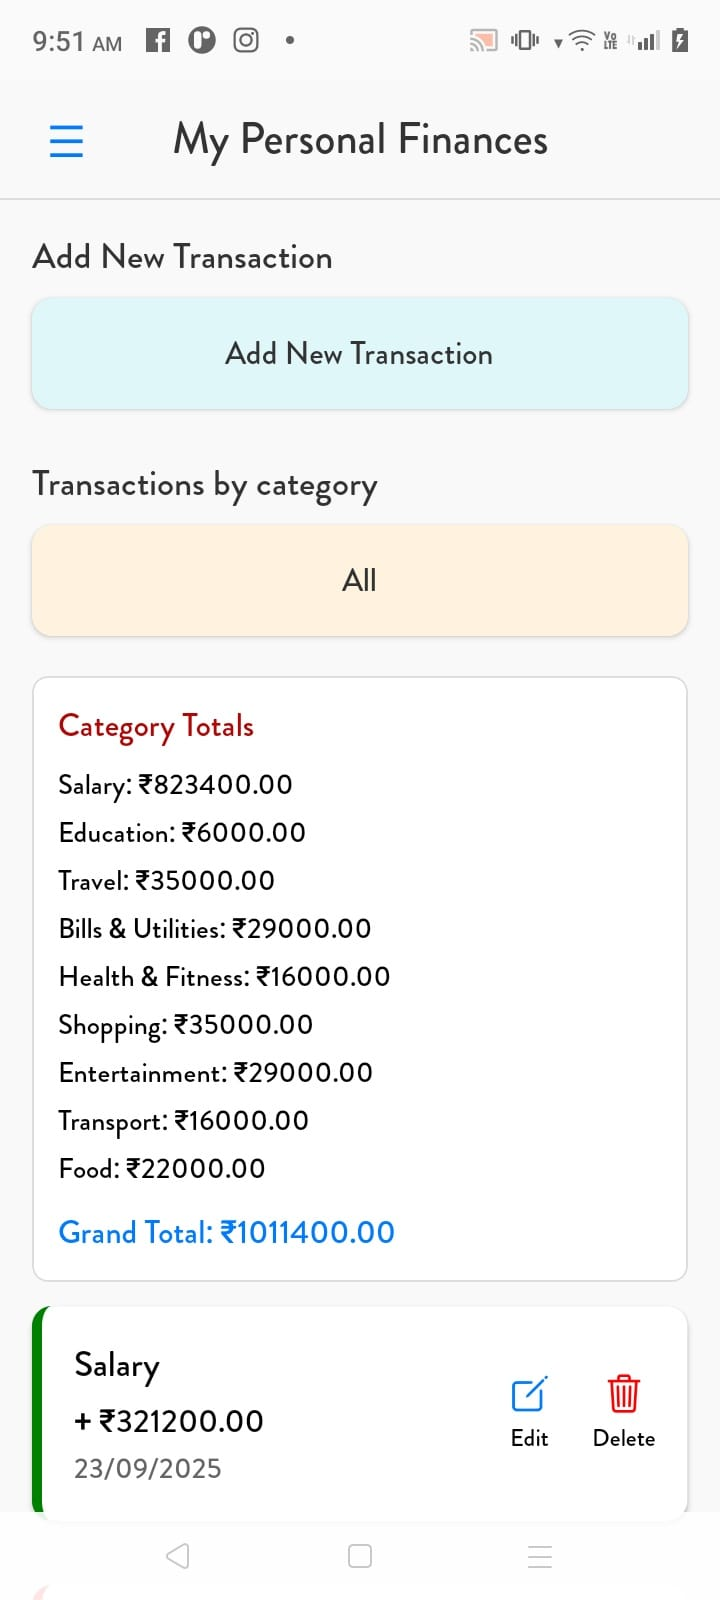
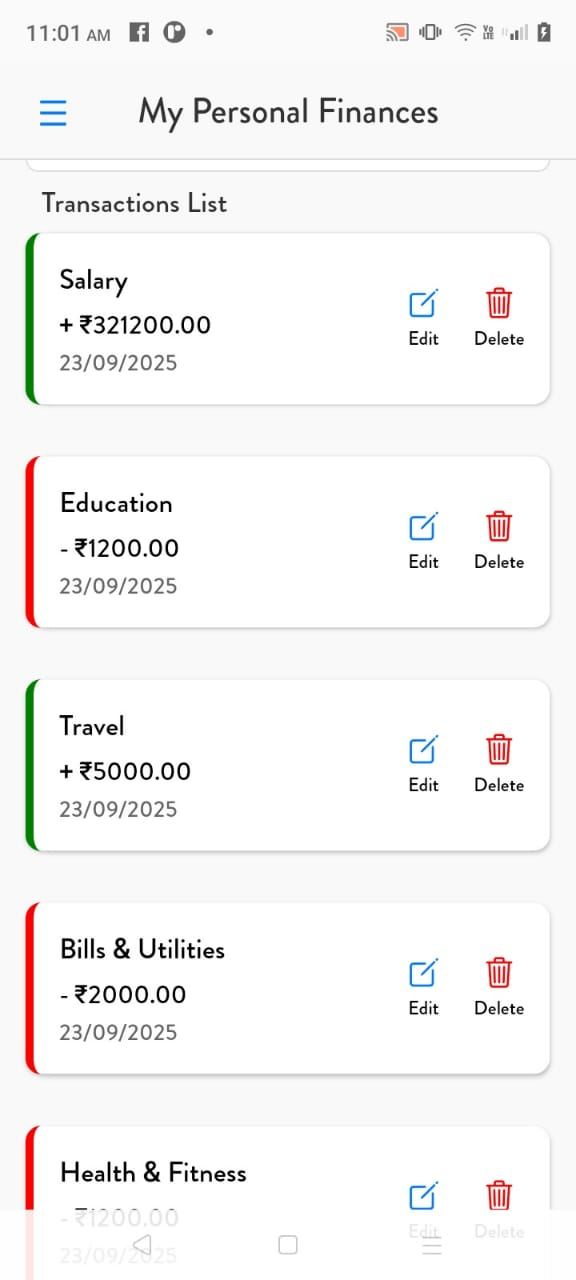
Update README with demo video and screenshots, update other assets and components

diff --git a/src/screens/TransactionsScreen.tsx b/src/screens/TransactionsScreen.tsx
@@ -36,7 +36,6 @@ export const TransactionsScreen: React.FC = () => {
   const [sortOrder, setSortOrder] = useState<"asc" | "desc">("desc");
   const [currentPage, setCurrentPage] = useState(1);
 
-  // Edit modal state
   const [editTransaction, setEditTransaction] = useState<Transaction | null>(null);
   const [formVisible, setFormVisible] = useState(false);
 
@@ -52,6 +51,7 @@ export const TransactionsScreen: React.FC = () => {
         ? transactions
         : transactions.filter((t) => t.transaction_category === selectedCategory);
 
+    // ✅ Sort by date (Ascending or Descending)
     const sortedFiltered = [...filtered].sort((a, b) => {
       const aDate = new Date(a.date).getTime();
       const bDate = new Date(b.date).getTime();
@@ -84,7 +84,6 @@ export const TransactionsScreen: React.FC = () => {
     }
   };
 
-  // Edit modal handler
   const handleEdit = useCallback((tx: Transaction) => {
     setEditTransaction(tx);
     setFormVisible(true);
@@ -101,7 +100,12 @@ export const TransactionsScreen: React.FC = () => {
   };
 
   const handleAddTransactionFromAction = (tx: Transaction) => {
-    addTransaction(tx); // Add transaction from TransactionActions
+    addTransaction(tx);
+  };
+
+  // ✅ Toggle sort order
+  const toggleSortOrder = () => {
+    setSortOrder((prev) => (prev === "desc" ? "asc" : "desc"));
   };
 
   if (loading) {
@@ -121,11 +125,18 @@ export const TransactionsScreen: React.FC = () => {
       <View style={styles.headerContainer}>
         <TouchableOpacity
           style={styles.toggleButton}
-          onPress={() => console.log("Toggle pressed")}
+          onPress={() => console.log("Menu pressed")}
         >
           <Text style={styles.toggleButtonText}>☰</Text>
         </TouchableOpacity>
         <Text style={styles.fixedTitle}>My Personal Finances</Text>
+
+        {/* ✅ Sort Button */}
+        <TouchableOpacity style={styles.sortButton} onPress={toggleSortOrder}>
+          <Text style={styles.sortText}>
+            {sortOrder === "desc" ? "↓ Date" : "↑ Date"}
+          </Text>
+        </TouchableOpacity>
       </View>
 
       {/* FlatList */}
@@ -139,27 +150,40 @@ export const TransactionsScreen: React.FC = () => {
             onDelete={removeTransaction}
           />
         )}
-        contentContainerStyle={{ paddingHorizontal: 16, paddingBottom: 20, paddingTop: 70 }}
-        ListEmptyComponent={
-          <Text style={styles.emptyText}>No transactions found</Text>
-        }
+        contentContainerStyle={{
+          paddingHorizontal: 16,
+          paddingBottom: 20,
+          paddingTop: 70,
+        }}
+        ListEmptyComponent={<Text style={styles.emptyText}>No transactions found</Text>}
         ListHeaderComponent={
-          <>
-            <BatteryMonitor />
-            <TransactionChart transactions={transactions} />
-            <TransactionActions
-              selectedCategory={selectedCategory}
-              categories={categories}
-              onAddTransaction={handleAddTransactionFromAction}
-              onSelectCategory={setSelectedCategory}
-            />
-            <CategoryTotals
-              categoryTotals={categoryTotals}
-              grandTotal={grandTotal}
-              selectedCategory={selectedCategory}
-            />
-          </>
-        }
+  <>
+    <BatteryMonitor />
+    <TransactionChart transactions={transactions} />
+    <TransactionActions
+      selectedCategory={selectedCategory}
+      categories={categories}
+      onAddTransaction={handleAddTransactionFromAction}
+      onSelectCategory={setSelectedCategory}
+    />
+    <CategoryTotals
+      categoryTotals={categoryTotals}
+      grandTotal={grandTotal}
+      selectedCategory={selectedCategory}
+    />
+
+    {/* 🔹 Title Row with Sort Button */}
+    <View style={styles.titleRow}>
+      <Text style={styles.listTitle}>Transactions List</Text>
+      <TouchableOpacity onPress={toggleSortOrder}>
+        <Text style={styles.sortButtonText}>
+          {sortOrder === "desc" ? "↓ Date" : "↑ Date"}
+        </Text>
+      </TouchableOpacity>
+    </View>
+  </>
+}
+
         onEndReached={handleLoadMore}
         onEndReachedThreshold={0.5}
         showsVerticalScrollIndicator={false}
@@ -198,7 +222,7 @@ const styles = StyleSheet.create({
     paddingHorizontal: 16,
   },
   fixedTitle: {
-    fontSize: 22,
+    fontSize: 20,
     fontFamily: "brandonmedium",
     color: "#333",
     textAlign: "center",
@@ -211,10 +235,19 @@ const styles = StyleSheet.create({
     justifyContent: "center",
     alignItems: "center",
   },
-  toggleButtonText: {
-    fontSize: 22,
-    color: "#007AFF",
+  toggleButtonText: { fontSize: 22, color: "#007AFF" },
+
+  sortButton: {
+    position: "absolute",
+    right: 16,
+    padding: 6,
   },
+  sortText: {
+    fontSize: 14,
+    color: "#007AFF",
+    fontFamily: "brandonmedium",
+  },
+
   emptyText: {
     textAlign: "center",
     marginTop: 20,
@@ -222,6 +255,26 @@ const styles = StyleSheet.create({
     color: "#555",
     fontFamily: "brandonmedium",
   },
+  listTitle: {
+    fontSize: 18,
+    fontFamily: "brandonmedium",
+    color: "#333",
+    marginTop: 20,
+  },
+  titleRow: {
+  flexDirection: "row",
+  justifyContent: "space-between",
+  alignItems: "center",
+  marginHorizontal: 10,
+},
+
+sortButtonText: {
+  fontSize: 14,
+  color: "#007AFF",
+  top: 10,
+  fontFamily: "brandonmedium",
+},
+
 });
 
 export default TransactionsScreen;

diff --git a/src/components/TransactionItem.tsx b/src/components/TransactionItem.tsx
@@ -19,7 +19,6 @@ const TransactionItem: React.FC<Props> = ({ item, onEdit, onDelete }) => {
         item.transaction_type === "income" ? styles.income : styles.expense,
       ]}
     >
-      {/* Left Side - Details */}
       <View style={{ flex: 1 }}>
         <Text style={styles.category}>{item.transaction_category}</Text>
         <Text style={styles.amount}>
@@ -29,7 +28,6 @@ const TransactionItem: React.FC<Props> = ({ item, onEdit, onDelete }) => {
         <Text style={styles.date}>{formattedDate}</Text>
       </View>
 
-      {/* Right Side - Action Buttons */}
       <TransactionActionsButtons
         item={item}
         onEdit={onEdit}

diff --git a/README.md b/README.md
@@ -12,11 +12,15 @@ It allows users to manage transactions, visualize spending, and sync data with b
 
 | Screenshot 1 | Screenshot 2 | Screenshot 3 |
 |--------------|--------------|--------------|
+<<<<<<< HEAD
 | ![Screenshot 1](assets/screenshot1.jpeg) <br> *Access device battery optimization settings. Send events to the React Native layer based on battery state.* | ![Screenshot 2](assets/screenshot2.jpeg) <br> *Title 2* | ![Screenshot 3](assets/screenshot3.jpeg) <br> *Title 3* |
+=======
+| ![Screenshot 1](assets/screenshot1.jpeg) <br> *1. Access device battery optimization settings. 2.based on battery state.* | ![Screenshot 2](assets/screenshot2.jpeg) <br> *1. Visualize data through react-native-chart-kit (bar chart, pie chart). * | ![Screenshot 3](assets/screenshot3.jpeg) <br> *1.List transactions with infinite scroll. 2. Sync data with a backend API [real].* |
+>>>>>>> f9c80be (Add all changes including README update)
 
 | Screenshot 4 | Screenshot 5 | Screenshot 6 |
 |--------------|--------------|--------------|
-| ![Screenshot 4](assets/screenshot4.jpeg) <br> *Title 4* | ![Screenshot 5](assets/screenshot5.jpeg) <br> *Title 5* | ![Screenshot 6](assets/screenshot6.jpeg) <br> *Title 6* |
+| ![Screenshot 4](assets/screenshot4.jpeg) <br> *Add new transactions using forms and validation.* | ![Screenshot 5](assets/screenshot5.jpeg) <br> *Categorize transactions (e.g., Food, Transport, Entertainment).* | ![Screenshot 6](assets/screenshot6.jpeg) <br> *1. Add, edit, and delete income and expense entries.* |
 
 
 ---
